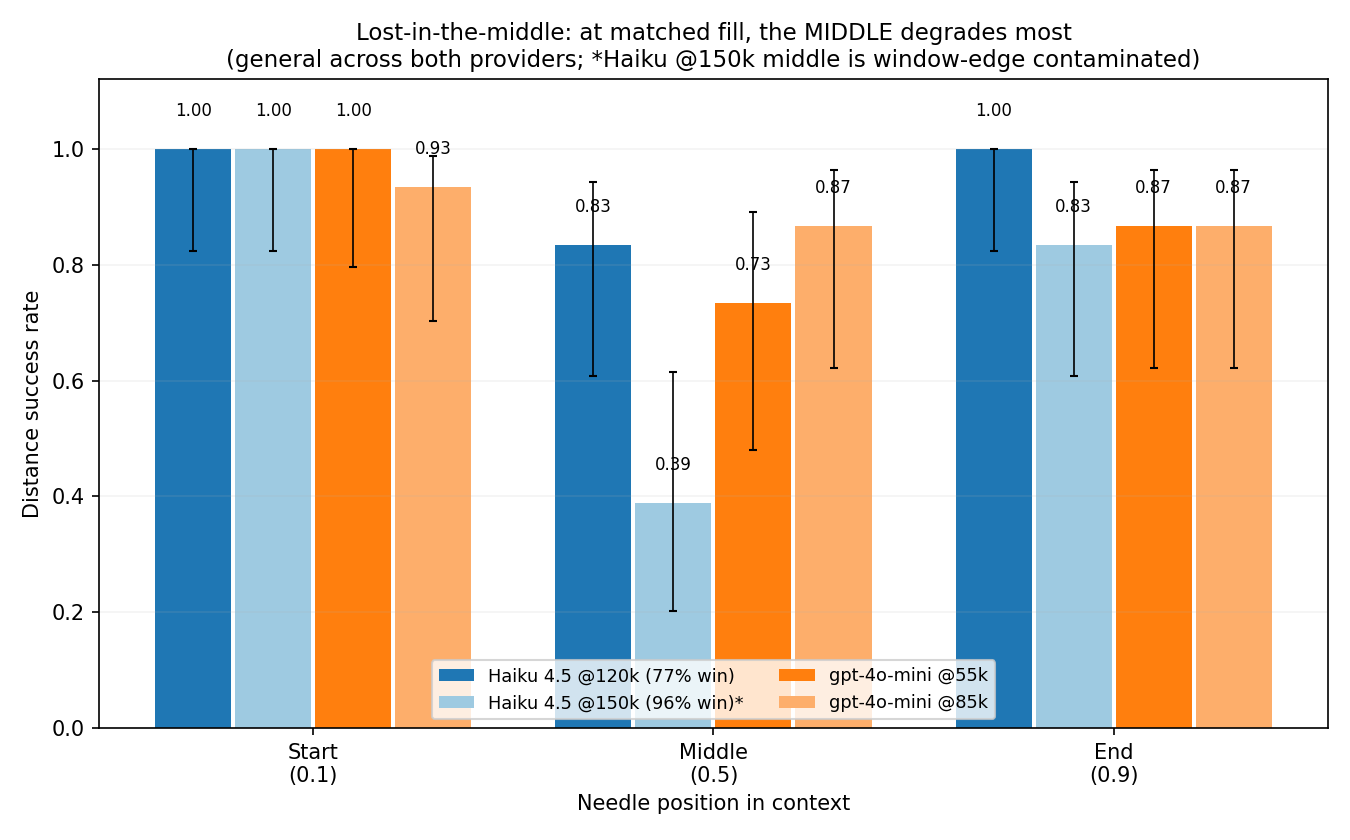
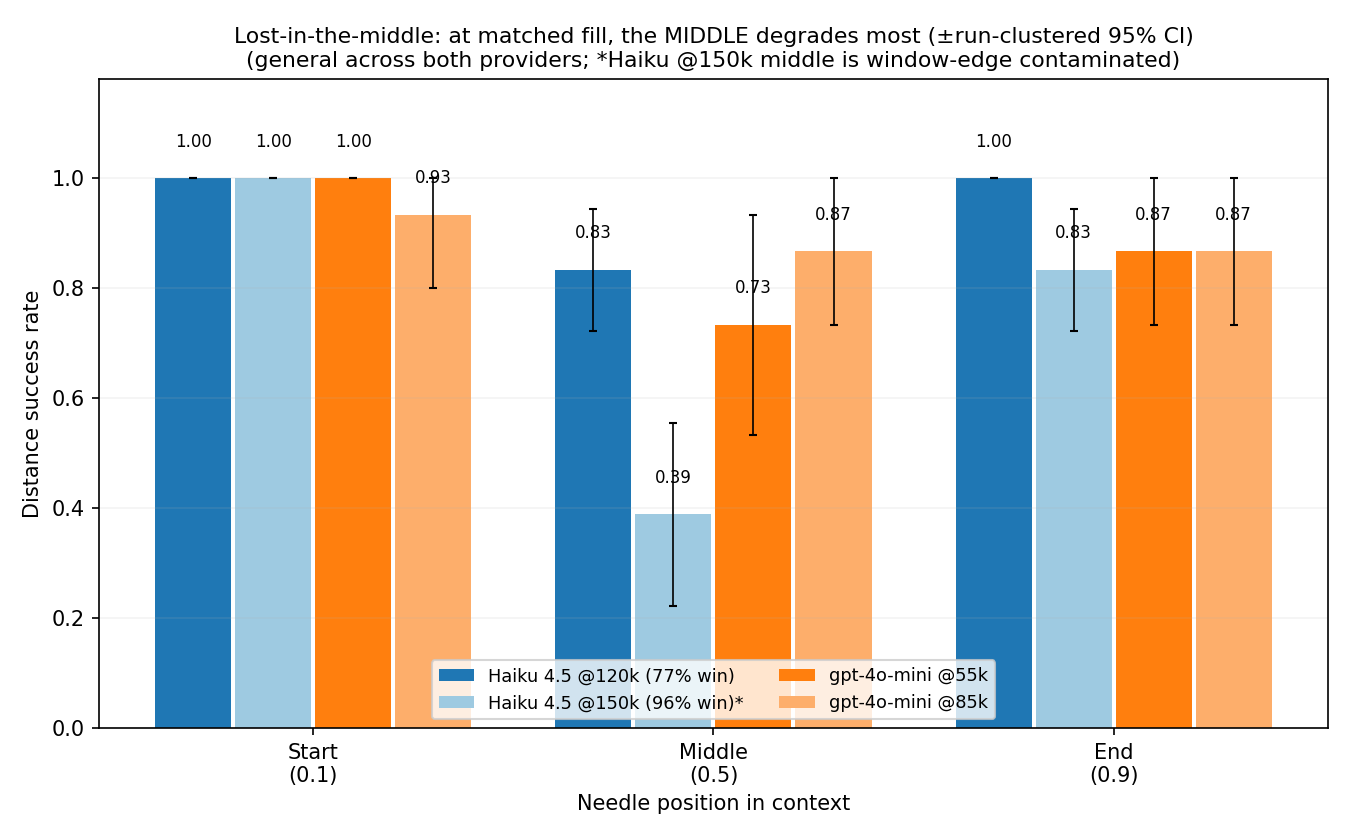
Verification follow-up: align figures to run-clustered CIs + manifest/marking parity
- make_figures.py: error bars are now RUN-CLUSTERED bootstrap 95% CIs (same method as
  bootstrap_ci.py), not needle-level Wilson — figures no more confident than the analysis.
- Ring distance points with NO matched near cell (3 low-fill Haiku points); marked, not
  excluded (a matched-near re-run stays a funded-session TODO). Legend + captions updated.
- posweep_manifest.txt + manifest-or-glob + provider!=mock for Fig 2 — same anti-contamination
  treatment as the canonical (dist_results) path.
- README fig1 caption notes run-clustered CIs + the ringed near-unmatched points.

(Local-only docs not in this repo — Brief got superseded-claims banners + inline tags;
Literature review "one-shot" -> "no correctness feedback".)

diff --git a/make_figures.py b/make_figures.py
@@ -6,29 +6,27 @@ Fig 1: the 4-model DISTANCE curves (reliability) vs context-fill, with the NEAR
 Fig 2: lost-in-the-middle — distance success by needle position (start/middle/end)
        at matched fill, for the two models that were position-swept.
 
-Aggregation mirrors analyze_curves.py: success = correct / total needles per cell,
-canonical curves use depth == 0.5 only, gpt-3.5 (raw lost then restored; fallback
-kept for safety) approximated where ctx_tokens predates logging.
+Error bars are **run-clustered** bootstrap 95% CIs (same method as bootstrap_ci.py) —
+NOT needle-level Wilson — so the plots are no more confident than the analysis (review #6).
+Both loaders read an explicit manifest (canonical_manifest.txt / posweep_manifest.txt) and
+skip provider=="mock" records, so a stray offline run can't contaminate either figure (#1/#5).
+Distance points with no matched near cell (±15% ctx) are ringed (review #5).
 """
 from __future__ import annotations
 
 import collections
 import glob
 import json
+import sys
 from pathlib import Path
 
 import matplotlib
 
-from analyze_curves import canonical_files, wilson
+from bootstrap_ci import SEED as BOOT_SEED
+from bootstrap_ci import _rand, cluster_boot, load_runs
 
 matplotlib.use("Agg")
 import matplotlib.pyplot as plt  # noqa: E402
-
-GPT35_CTX_RATIO = 1.25
-GPT35_FALLBACK: dict[str, list[tuple[float, float, int]]] = {
-    "distance": [(1300, 0.98, 45), (2600, 0.96, 45), (5200, 0.93, 45), (10400, 0.71, 45)],
-    "near": [(1300, 1.00, 45), (2600, 0.98, 45), (5200, 0.98, 45), (10400, 1.00, 45)],
-}
 
 ORDER = ["gpt-3.5-turbo", "gpt-4o-mini", "claude-haiku-4-5-20251001", "claude-sonnet-4-6"]
 DISPLAY = {
@@ -43,79 +41,75 @@ COLOR = {
     "claude-haiku-4-5-20251001": "#1f77b4",
     "claude-sonnet-4-6": "#2ca02c",
 }
+# (ctx, point, lo, hi, n_runs, n_needles)
+Cell = tuple[float, float, float, float, int, int]
 
 
-def load_distance() -> dict[str, dict[str, list[tuple[float, float, int]]]]:
-    """model -> condition -> sorted [(mean_ctx, success, n)] from dist_results_*.jsonl."""
-    raw: dict[tuple[str, str, int], collections.Counter[str]] = collections.defaultdict(
-        collections.Counter)
-    ctxs: dict[tuple[str, str, int], list[float]] = collections.defaultdict(list)
-    for f in canonical_files():  # explicit manifest, not a glob — no mock contamination (#1)
-        for line in Path(f).read_text(encoding="utf-8").splitlines():
-            if not line.strip():
-                continue
-            r = json.loads(line)
-            if r.get("provider") == "mock":
-                continue
-            if abs(float(r.get("depth", 0.5)) - 0.5) > 1e-9:
-                continue
-            key = (r["model"], r["condition"], r["fill_target"])
-            c = r.get("ctx_tokens") or r["fill_target"] * GPT35_CTX_RATIO
-            ctxs[key].append(c)
-            for n in r["needles"]:
-                raw[key][n["outcome"]] += 1
-    out: dict[str, dict[str, list[tuple[float, float, int]]]] = collections.defaultdict(
+def posweep_files() -> list[str]:
+    """Manifest-or-glob for the position-sweep files (mirrors analyze_curves.canonical_files)."""
+    manifest = Path("posweep_manifest.txt")
+    if manifest.exists():
+        names = [ln.strip() for ln in manifest.read_text(encoding="utf-8").splitlines()
+                 if ln.strip() and not ln.strip().startswith("#")]
+        return [f for f in names if Path(f).exists()]
+    return sorted(glob.glob("posweep_*.jsonl"))
+
+
+def load_distance() -> dict[str, dict[str, list[Cell]]]:
+    """model -> condition -> sorted [(ctx, point, lo95, hi95, n_runs, n_needles)] with
+    RUN-CLUSTERED bootstrap CIs (resamples whole runs; needles within a run aren't independent)."""
+    cells = load_runs()  # (model, cond, fill) -> [{"outcomes":[...], "ctx":int}, ...]
+    rng = _rand(BOOT_SEED)
+    out: dict[str, dict[str, list[Cell]]] = collections.defaultdict(
         lambda: collections.defaultdict(list))
-    for (model, cond, _fill), cnt in raw.items():
-        tot = sum(cnt.values())
-        succ = cnt["correct"] / tot if tot else 0.0
-        k = (model, cond, _fill)
-        out[model][cond].append((sum(ctxs[k]) / len(ctxs[k]), succ, tot))
+    for key in sorted(cells):  # fixed order => deterministic bootstrap draws
+        model, cond, _fill = key
+        runs = cells[key]
+        pt, lo, hi, nr, nn = cluster_boot(runs, rng)
+        ctx = sum(r["ctx"] for r in runs) / len(runs) if runs else 0.0
+        out[model][cond].append((ctx, pt, lo, hi, nr, nn))
     for model in out:
         for cond in out[model]:
             out[model][cond].sort()
-    if "gpt-3.5-turbo" not in out:
-        out["gpt-3.5-turbo"] = dict(GPT35_FALLBACK)  # type: ignore[assignment]
     return out
 
 
-def load_positions() -> dict[tuple[str, int], dict[float, tuple[float, float, int]]]:
-    """(model, fill) -> depth -> (mean_ctx, success, n) from posweep_*.jsonl (distance)."""
-    raw: dict[tuple[str, int, float], collections.Counter[str]] = collections.defaultdict(
-        collections.Counter)
-    ctxs: dict[tuple[str, int, float], list[float]] = collections.defaultdict(list)
-    for f in glob.glob("posweep_*.jsonl"):
+def load_positions() -> dict[tuple[str, int], dict[float, Cell]]:
+    """(model, fill) -> depth -> run-clustered Cell, from the position sweeps (distance only)."""
+    runs: dict[tuple[str, int, float], list[dict]] = collections.defaultdict(list)
+    for f in posweep_files():
         for line in Path(f).read_text(encoding="utf-8").splitlines():
             if not line.strip():
                 continue
             r = json.loads(line)
-            if r.get("provider") == "mock":
-                continue
-            if r["condition"] != "distance":
+            if r.get("provider") == "mock" or r["condition"] != "distance":
                 continue
             key = (r["model"], r["fill_target"], float(r["depth"]))
-            ctxs[key].append(r.get("ctx_tokens") or r["fill_target"])
-            for n in r["needles"]:
-                raw[key][n["outcome"]] += 1
-    out: dict[tuple[str, int], dict[float, tuple[float, float, int]]] = collections.defaultdict(
-        dict)
-    for (model, fill, depth), cnt in raw.items():
-        tot = sum(cnt.values())
-        succ = cnt["correct"] / tot if tot else 0.0
-        k = (model, fill, depth)
-        out[(model, fill)][depth] = (sum(ctxs[k]) / len(ctxs[k]), succ, tot)
+            runs[key].append({"outcomes": [n["outcome"] for n in r["needles"]],
+                              "ctx": r.get("ctx_tokens") or r["fill_target"]})
+    rng = _rand(BOOT_SEED + 1)
+    out: dict[tuple[str, int], dict[float, Cell]] = collections.defaultdict(dict)
+    for key in sorted(runs):
+        model, fill, depth = key
+        pt, lo, hi, nr, nn = cluster_boot(runs[key], rng)
+        ctx = sum(r["ctx"] for r in runs[key]) / len(runs[key])
+        out[(model, fill)][depth] = (ctx, pt, lo, hi, nr, nn)
     return out
 
 
-def contour(points: list[tuple[float, float, int]], thr: float) -> float | None:
-    for (c0, s0, _), (c1, s1, _) in zip(points, points[1:]):
+def contour(points: list[tuple[float, float]], thr: float) -> float | None:
+    for (c0, s0), (c1, s1) in zip(points, points[1:]):
         if s0 >= thr > s1:
             frac = (s0 - thr) / (s0 - s1) if s0 != s1 else 0.0
             return c0 + frac * (c1 - c0)
     return None
 
 
-def fig_curves(data: dict[str, dict[str, list[tuple[float, float, int]]]]) -> None:
+def _matched(c: float, near_ctx: list[float]) -> bool:
+    return any(abs(c - nc) <= 0.15 * max(c, 1.0) for nc in near_ctx)
+
+
+def fig_curves(data: dict[str, dict[str, list[Cell]]]) -> None:
     fig, ax = plt.subplots(figsize=(10, 6.2))
     models = [m for m in ORDER if m in data]
     for m in models:
@@ -123,20 +117,26 @@ def fig_curves(data: dict[str, dict[str, list[tuple[float, float, int]]]]) -> No
         near = data[m].get("near", [])
         if not dist:
             continue
-        r90 = contour(dist, 0.90)
-        r90txt = f"R90≈{r90/1000:.0f}k" if r90 else "R90>max"
-        xs = [p[0] for p in dist]
-        ys = [p[1] for p in dist]
-        cis = [wilson(p[1], p[2]) for p in dist]
-        yerr = [[y - lo for y, (lo, _h) in zip(ys, cis)],
-                [h - y for y, (_lo, h) in zip(ys, cis)]]
+        r90 = contour([(c, pt) for c, pt, *_ in dist], 0.90)
+        r90txt = f"R90≈{r90 / 1000:.0f}k" if r90 else "R90>max"
+        xs = [c for c, *_ in dist]
+        ys = [pt for _c, pt, *_ in dist]
+        yerr = [[pt - lo for _c, pt, lo, _hi, _nr, _nn in dist],
+                [hi - pt for _c, pt, _lo, hi, _nr, _nn in dist]]
         ax.errorbar(xs, ys, yerr=yerr, fmt="-o", color=COLOR[m], lw=2.2, ms=6,
                     capsize=2.5, elinewidth=1.0,
                     label=f"{DISPLAY[m]}  ({r90txt})  — distance")
         if near:
-            nx = [p[0] for p in near]
-            ny = [p[1] for p in near]
-            ax.plot(nx, ny, "--", color=COLOR[m], lw=1.1, alpha=0.45)
+            ax.plot([c for c, *_ in near], [pt for _c, pt, *_ in near],
+                    "--", color=COLOR[m], lw=1.1, alpha=0.45)
+            near_ctx = [c for c, *_ in near]
+            unx = [c for c, *_ in dist if not _matched(c, near_ctx)]
+            uny = [pt for c, pt, *_ in dist if not _matched(c, near_ctx)]
+            if unx:
+                ax.scatter(unx, uny, facecolors="none", edgecolors=COLOR[m], s=150,
+                           linewidths=1.6, zorder=5)
+    ax.scatter([], [], facecolors="none", edgecolors="grey", s=150, linewidths=1.6,
+               label="○ distance point with NO matched near cell")
     ax.axhline(0.90, color="grey", ls=":", lw=1, alpha=0.7)
     ax.text(1100, 0.905, "R90 threshold (0.90)", color="grey", fontsize=8, va="bottom")
     ax.axhline(0.50, color="grey", ls=":", lw=1, alpha=0.5)
@@ -147,16 +147,16 @@ def fig_curves(data: dict[str, dict[str, list[tuple[float, float, int]]]]) -> No
     ax.set_xlabel("Context fill (measured input tokens, log scale)")
     ax.set_ylabel("Success rate")
     ax.set_title("Reliability vs. context-fill: effective reliable length spans ~54× "
-                 "(R90, ordinal)\nsolid = distance (±Wilson, needle-level)   ·   "
+                 "(R90, ordinal)\nsolid = distance (±run-clustered 95% CI)   ·   "
                  "dashed = near control (≥0.97, not 1.00)", fontsize=11.5)
-    ax.legend(loc="lower left", fontsize=9, framealpha=0.92)
+    ax.legend(loc="lower left", fontsize=8.5, framealpha=0.92)
     ax.grid(True, which="both", ls="-", alpha=0.13)
     fig.tight_layout()
     fig.savefig("fig1_reliability_curves.png", dpi=150)
     print("wrote fig1_reliability_curves.png")
 
 
-def fig_position(pos: dict[tuple[str, int], dict[float, tuple[float, float, int]]]) -> None:
+def fig_position(pos: dict[tuple[str, int], dict[float, Cell]]) -> None:
     series = [
         ("claude-haiku-4-5-20251001", 120000, "Haiku 4.5 @120k (77% win)", "#1f77b4"),
         ("claude-haiku-4-5-20251001", 150000, "Haiku 4.5 @150k (96% win)*", "#9ecae1"),
@@ -170,19 +170,13 @@ def fig_position(pos: dict[tuple[str, int], dict[float, tuple[float, float, int]
     width = 0.8 / n
     fig, ax = plt.subplots(figsize=(9, 5.6))
     x0 = list(range(len(depths)))
+    nan = float("nan")
     for i, (model, fill, lab, col) in enumerate(series):
         cell = pos[(model, fill)]
-        cd = [cell.get(d, (0, float("nan"), 0)) for d in depths]
-        ys = [c[1] for c in cd]
-        elo, ehi = [], []
-        for c in cd:
-            if c[1] == c[1] and c[2]:  # not NaN, n>0
-                lo, hi = wilson(c[1], c[2])
-                elo.append(c[1] - lo)
-                ehi.append(hi - c[1])
-            else:
-                elo.append(0.0)
-                ehi.append(0.0)
+        cd = [cell.get(d) for d in depths]
+        ys = [c[1] if c else nan for c in cd]
+        elo = [(c[1] - c[2]) if c else 0.0 for c in cd]
+        ehi = [(c[3] - c[1]) if c else 0.0 for c in cd]
         xs = [x + (i - (n - 1) / 2) * width for x in x0]
         bars = ax.bar(xs, ys, width=width * 0.95, color=col, label=lab,
                       yerr=[elo, ehi], capsize=2, error_kw={"elinewidth": 0.8})
@@ -192,12 +186,12 @@ def fig_position(pos: dict[tuple[str, int], dict[float, tuple[float, float, int]
                         f"{y:.2f}", ha="center", va="bottom", fontsize=8)
     ax.set_xticks(x0)
     ax.set_xticklabels(labels)
-    ax.set_ylim(0, 1.12)
+    ax.set_ylim(0, 1.18)
     ax.set_ylabel("Distance success rate")
     ax.set_xlabel("Needle position in context")
-    ax.set_title("Lost-in-the-middle: at matched fill, the MIDDLE degrades most\n"
-                 "(general across both providers; *Haiku @150k middle is window-edge "
-                 "contaminated)", fontsize=11)
+    ax.set_title("Lost-in-the-middle: at matched fill, the MIDDLE degrades most "
+                 "(±run-clustered 95% CI)\n(general across both providers; *Haiku @150k middle "
+                 "is window-edge contaminated)", fontsize=10.5)
     ax.legend(fontsize=8.5, loc="lower center", ncol=2)
     ax.grid(True, axis="y", alpha=0.15)
     fig.tight_layout()
@@ -206,17 +200,23 @@ def fig_position(pos: dict[tuple[str, int], dict[float, tuple[float, float, int]
 
 
 def main() -> None:
+    for stream in (sys.stdout, sys.stderr):
+        try:
+            stream.reconfigure(encoding="utf-8", errors="replace")  # type: ignore[union-attr]
+        except (AttributeError, ValueError):
+            pass
     data = load_distance()
-    print("DISTANCE curve cells (model: [(ctx, success, n)...]):")
+    print("DISTANCE cells (model: [(ctx, point, lo, hi, n_runs)...]) — run-clustered:")
     for m in ORDER:
         if m in data and data[m].get("distance"):
-            pts = [(round(c), round(s, 2), n) for c, s, n in data[m]["distance"]]
+            pts = [(round(c), round(pt, 2), round(lo, 2), round(hi, 2), nr)
+                   for c, pt, lo, hi, nr, _nn in data[m]["distance"]]
             print(f"  {DISPLAY.get(m, m)}: {pts}")
     fig_curves(data)
     pos = load_positions()
-    print("\nPOSITION cells (model, fill): depth -> success:")
+    print("\nPOSITION cells (model, fill): depth -> point [lo,hi]:")
     for (model, fill), cell in sorted(pos.items()):
-        row = {d: round(v[1], 2) for d, v in sorted(cell.items())}
+        row = {d: (round(v[1], 2), round(v[2], 2), round(v[3], 2)) for d, v in sorted(cell.items())}
         print(f"  {DISPLAY.get(model, model)} @{fill}: {row}")
     fig_position(pos)
 

diff --git a/README.md b/README.md
@@ -43,6 +43,8 @@ With `near` **at/near ceiling the whole way** (min 0.97; flat to **891k tokens o
 
 ![Reliability vs. context-fill for four models; near control stays at/near ceiling (>=0.97) while distance decays, with effective reliable length spanning ~54x](fig1_reliability_curves.png)
 
+*Error bars are **run-clustered** 95% bootstrap CIs (`bootstrap_ci.py`), not needle-level — so the plot is no more confident than the analysis. Hollow rings mark distance points with **no matched `near` cell** (3 low-fill Haiku points; a matched-near re-run is a TODO).*
+
 ## Reliability is a coordinate system, not a number
 
 The decomposition is the contribution: "model X is better" becomes a structured statement across axes that move independently.